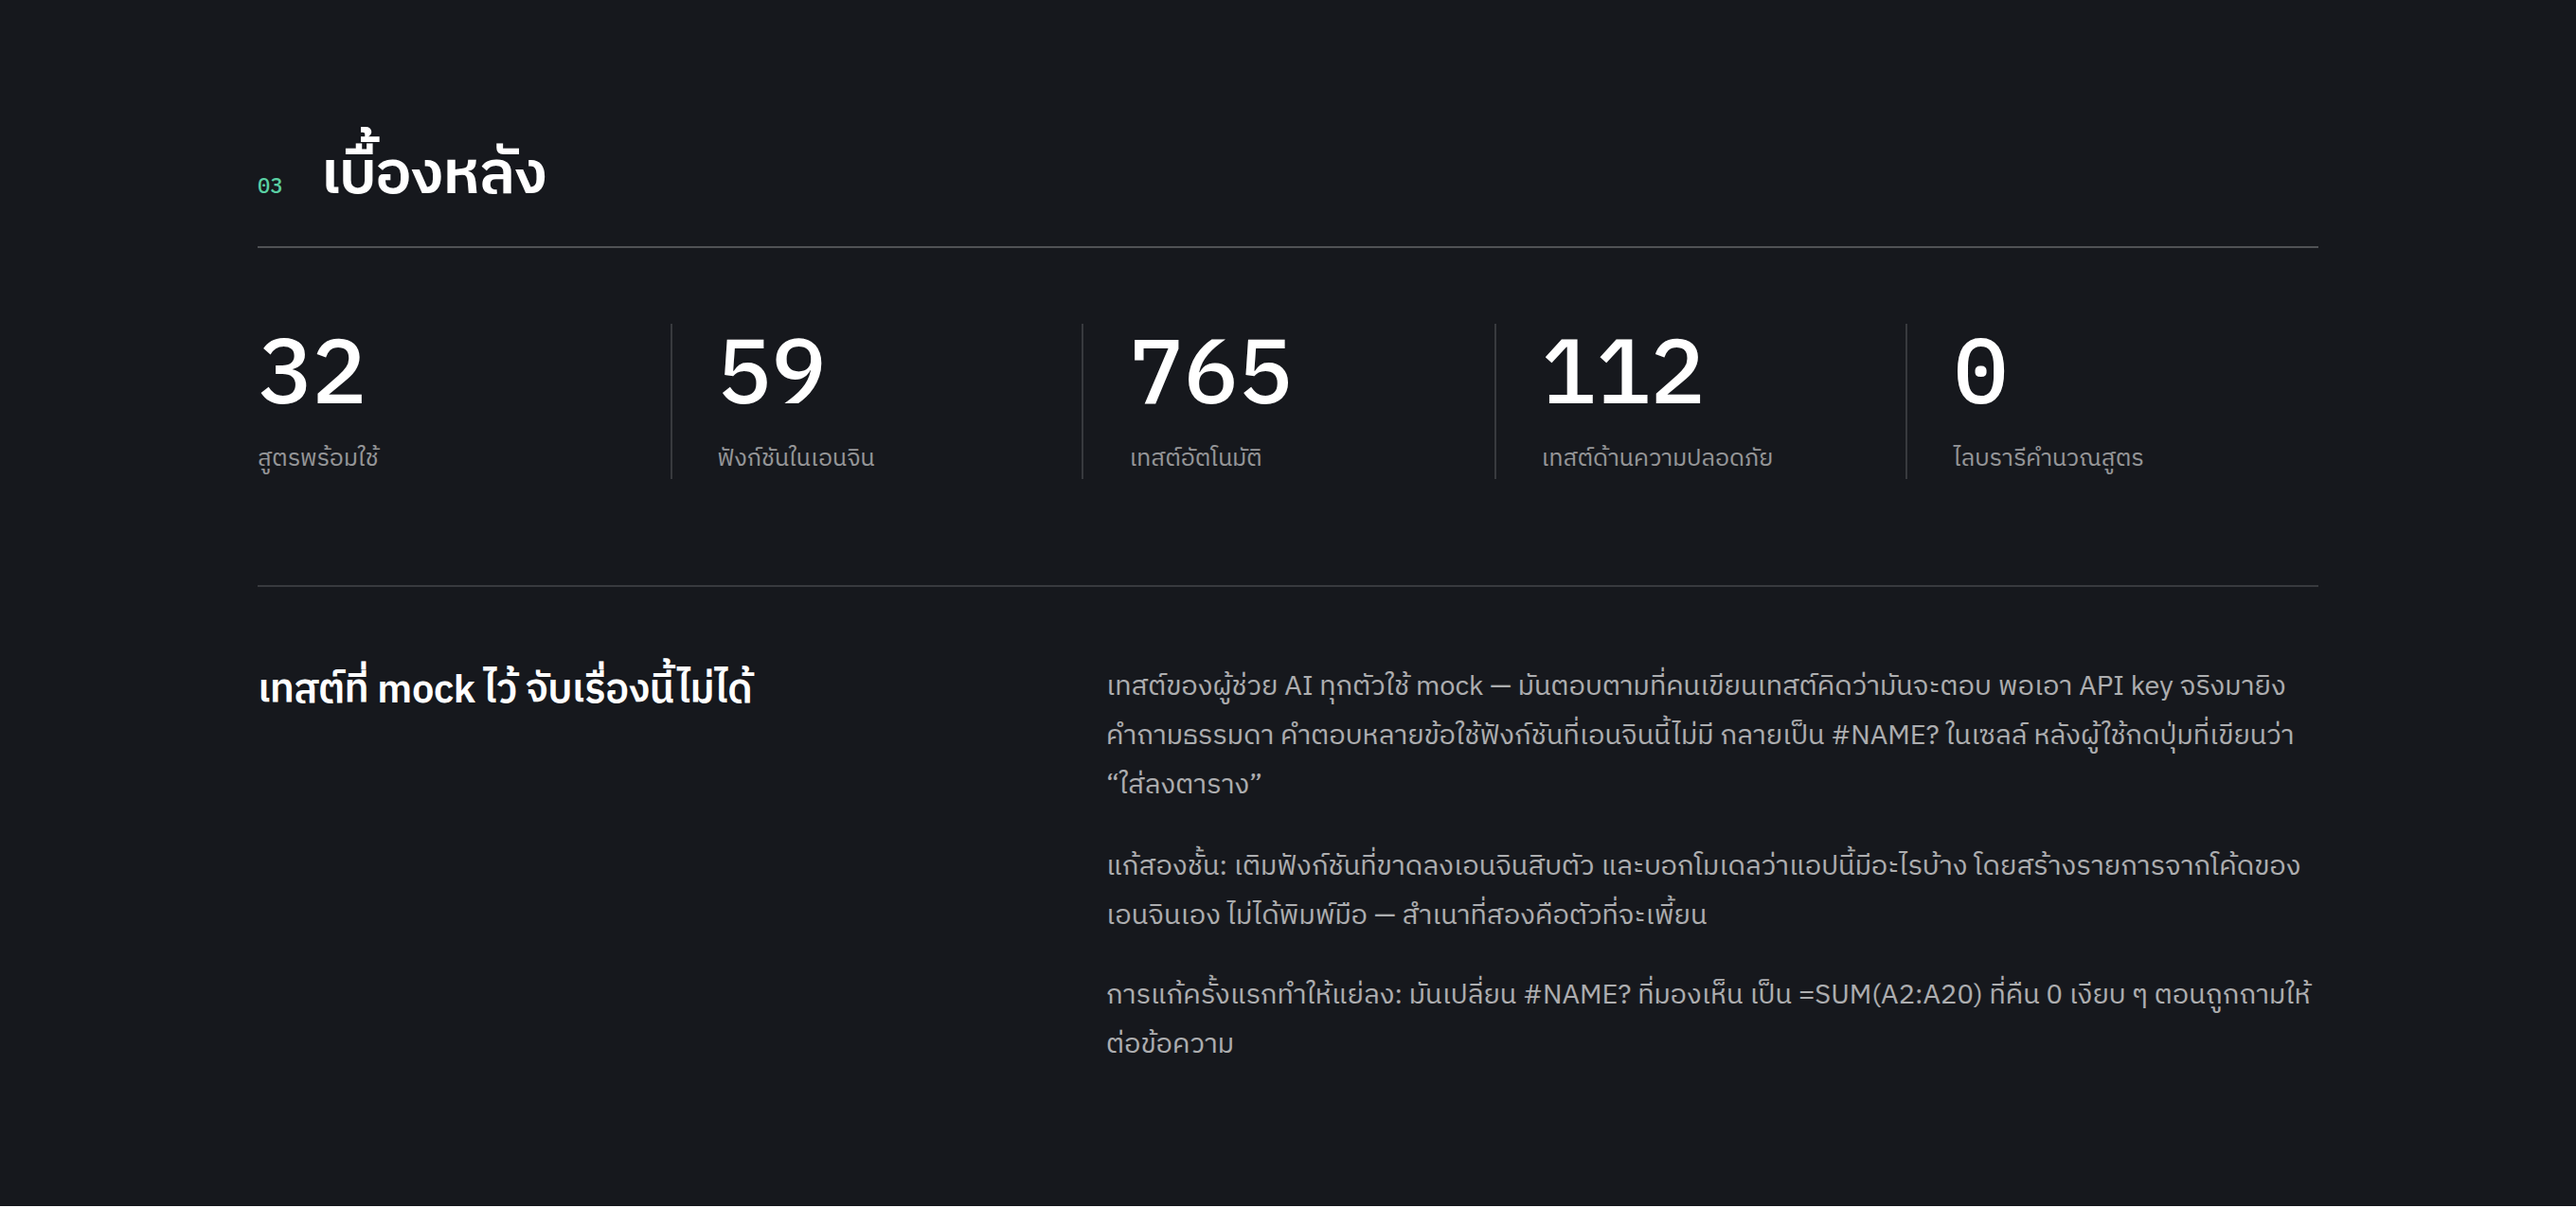
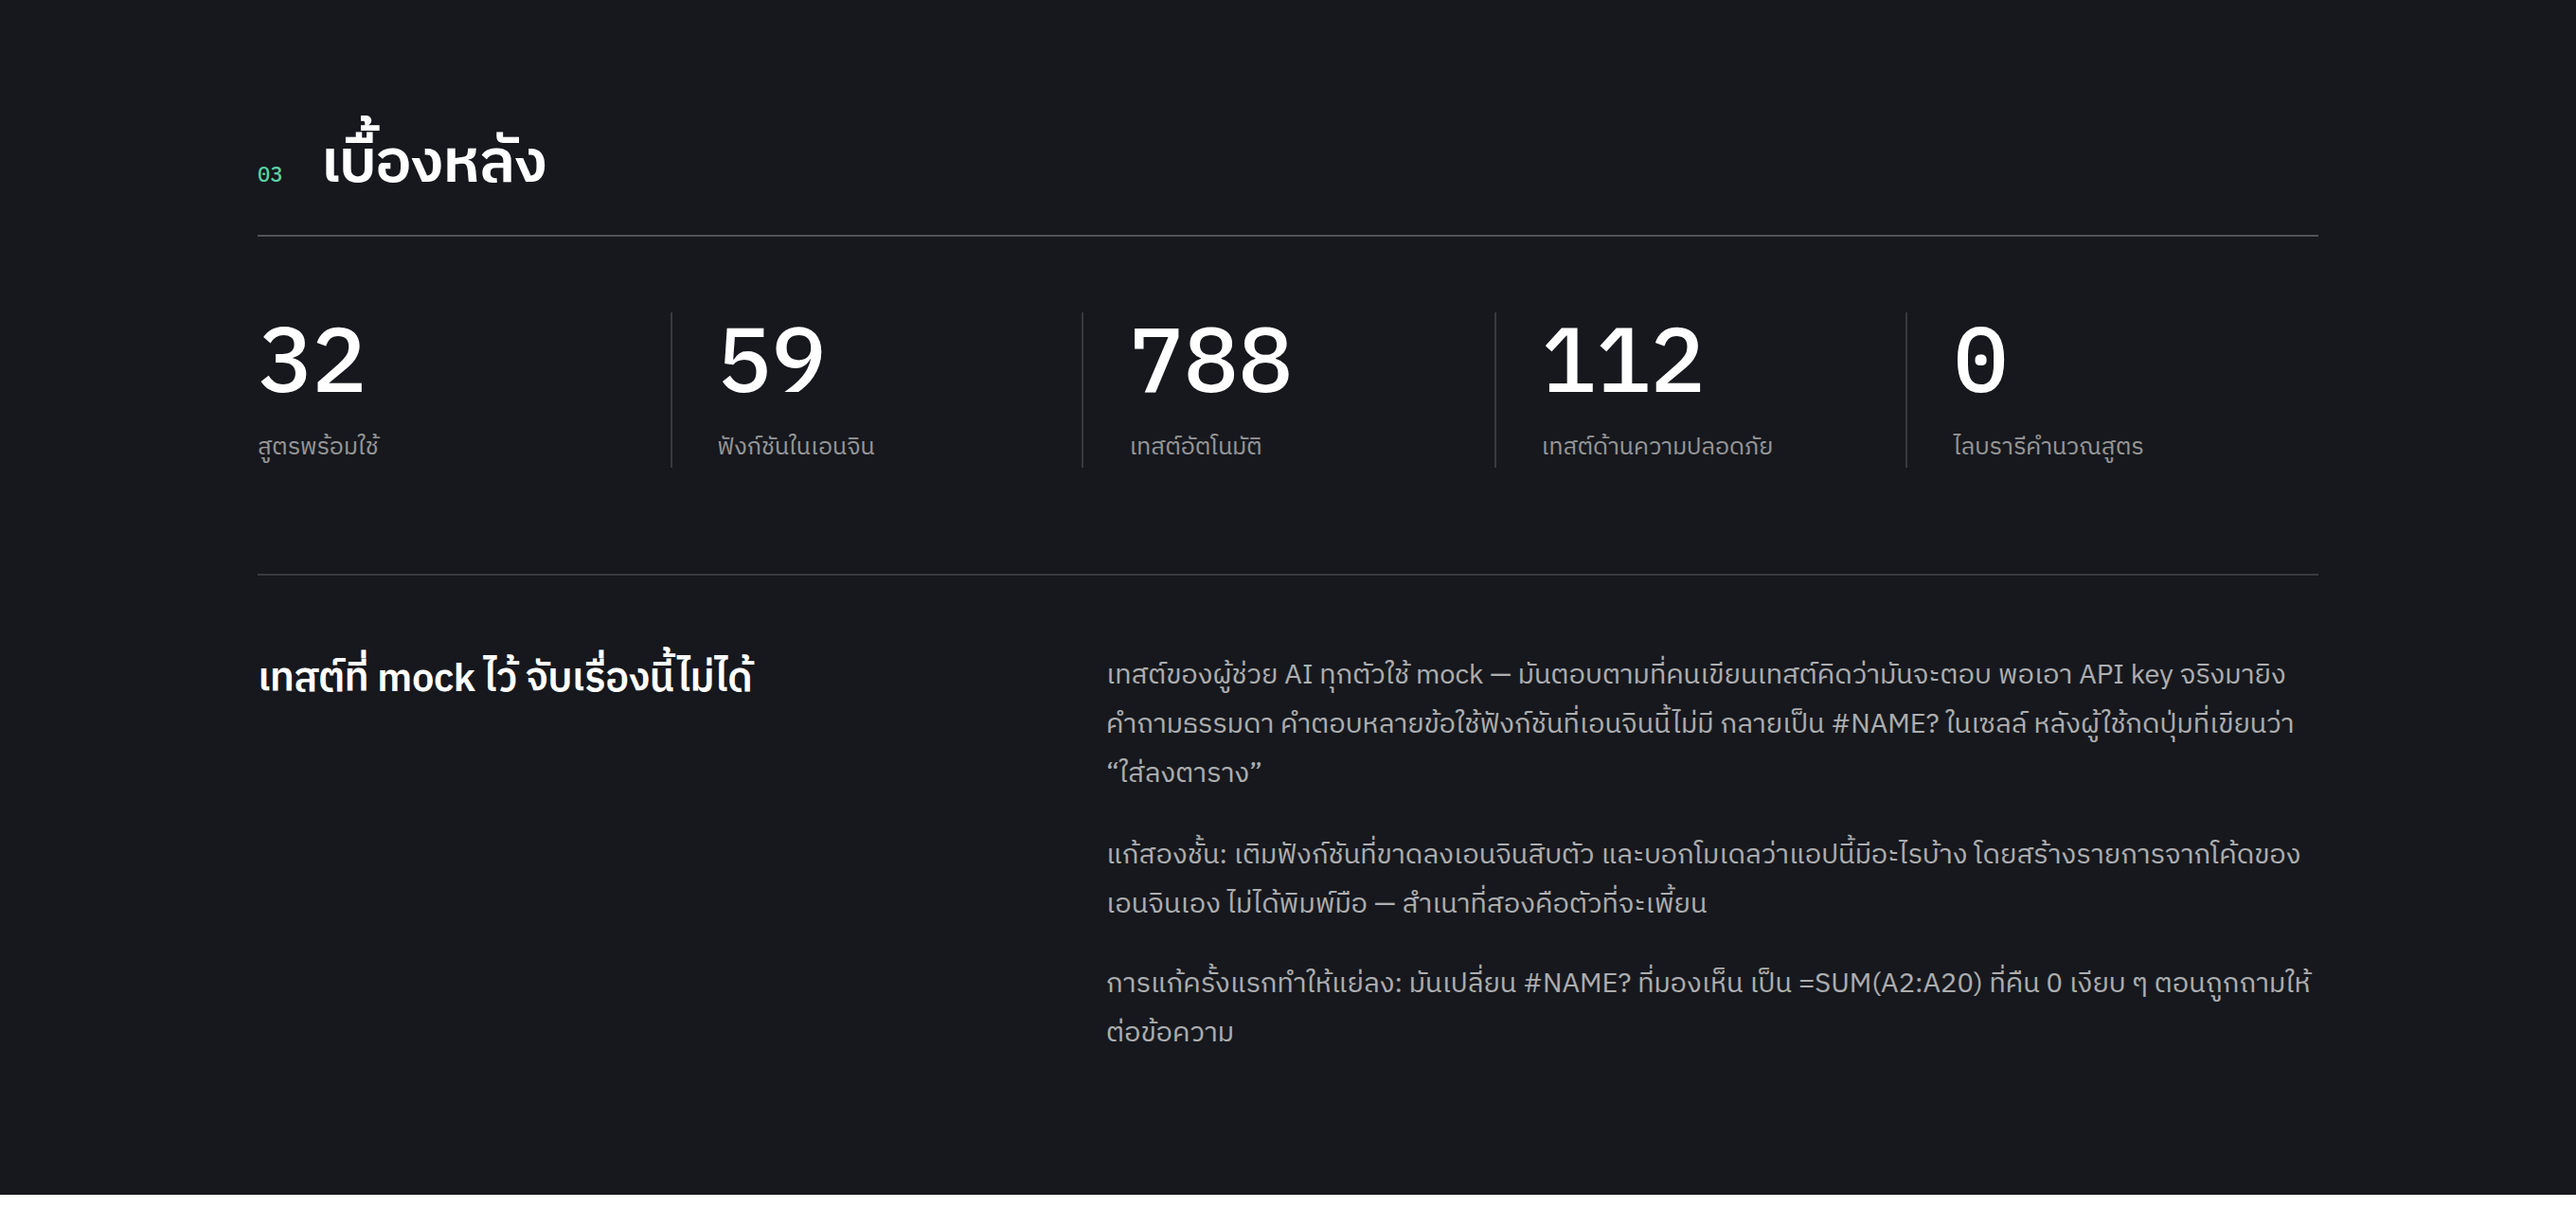
docs: what a green suite missed, twice
Every gate was green — 788 tests, axe clean on both pages at two widths,
Lighthouse Accessibility 100 — while a dead toolbar, an assistant
answering text questions with SUM, and a grid no screen reader could
drive were all sitting in the public build. That is the same lesson the
"what the tests could not catch" section already told about mocked AI
tests, so it belongs in that section rather than in a new one.

Both READMEs: the three findings and their fixes, the AutoSum range rule
with the computed-vs-raw subtlety that made the total right and the range
wrong, and the ARIA grid work under the Lighthouse numbers where the 100
it does not deserve is printed. Two claims that this work made untrue are
corrected — the matcher no longer "guesses a basic formula", it declines.

Roadmap gains the grid-pattern entry (done, with what is still open: an
aria-live summary, and no real screen reader has seen any of it) and a
new gap the blind run turned up: the Excel keyboard works completely and
nothing on screen says it exists — no help button, no shortcut list, no
mention of Ctrl+ outside the undo/redo tooltips.

Counts: 765 → 788 tests, 45 → 47 files, everywhere they are claimed.
25-landing and 27-landing-stats retaken from a production build because
they print the number, and social-preview.png regenerated from
scripts/counts.mjs. 04-ai-assistant is left alone: it shows the
bring-your-own-key path with a real answer, and nothing in it changed.
[…]

diff --git a/src/app/opengraph-image.tsx b/src/app/opengraph-image.tsx
@@ -26,7 +26,7 @@ export default function OgImage() {
   const stats = [
     ["59", "engine functions"],
     ["32", "palette formulas"],
-    ["765", "automated tests"],
+    ["788", "automated tests"],
     ["112", "of them security"],
     ["0", "formula libraries"],
   ];

diff --git a/README.en.md b/README.en.md
@@ -36,7 +36,7 @@ Runs in your browser; your data stays on your machine.
   <img alt="Tailwind CSS" src="https://img.shields.io/badge/Tailwind_CSS-4-06B6D4?logo=tailwindcss&logoColor=white">
   <img alt="Zustand" src="https://img.shields.io/badge/Zustand-5-443E38">
   <a href="https://excel-to-go.vercel.app"><img alt="Live demo" src="https://img.shields.io/badge/▶_try_it-live_demo-2F9E44"></a>
-  <img alt="Vitest" src="https://img.shields.io/badge/tests-765%20passing-2F9E44?logo=vitest&logoColor=white">
+  <img alt="Vitest" src="https://img.shields.io/badge/tests-788%20passing-2F9E44?logo=vitest&logoColor=white">
   <img alt="CI" src="https://github.com/SuruchBoss/ExcelToGo/actions/workflows/ci.yml/badge.svg">
 </p>
 
@@ -52,7 +52,7 @@ cell/range references, relative & structural reference adjustment, circular-refe
 workbooks, conditional formatting that re-colours cells from their current values, pivot summaries over a
 selected range, and full-fidelity Excel/PDF export — where a chart exported to `.xlsx` is a real, editable chart
 bound to its cells, because the OOXML chart parts are written by hand (ExcelJS writes none). Plus optional
-bring-your-own-backend cloud save. Bilingual UI (Thai/English), 765 automated tests.
+bring-your-own-backend cloud save. Bilingual UI (Thai/English), 788 automated tests.
 
 ---
 
@@ -96,7 +96,7 @@ Want the harder parts: [embedding a Thai font in the PDF, with stacked tone mark
 
 ---
 
-### 🧪 What 765 passing tests could not catch
+### 🧪 What 788 passing tests could not catch
 
 Every test of the assistant **mocks the model** — it returns what I imagined it would. Put a real
 API key behind it, ask fourteen ordinary questions, and **six answers used functions this engine
@@ -106,6 +106,26 @@ all `#NAME?` in the cell, right after pressing a button labelled "insert".
 Then **the first fix made it worse.** The rule started as "give the closest formula the list
 allows", so _"join all the names into one line"_ came back as `=SUM(A2:A20)` — `0` in the cell, no
 error, nothing to notice. **A visible `#NAME?` traded for an invisible wrong number.**
+
+**And it happened again, in a different place.** With every gate green — 788 tests, `axe` clean on
+both pages at two widths — an hour of clicking through the public build the way a first-time visitor
+would found three things no gate can see:
+
+- Half-insert a formula from the palette and **all six sidebar buttons went dead.** They still set
+  the mode in the store; a `pending ? … : mode` render just outranked it. Escape did nothing either,
+  so the press arrived later, attached to whichever click finally cancelled the formula.
+- The keyword matcher — which on the public demo is not a fallback but the *only* thing anyone sees
+  — answered _"add up all the sales"_ with `=SUM(E2)`, the total of one cell, and _"join the product
+  name and the category"_ with `=SUM(E2)` again. The system prompt has forbidden the model from
+  substituting like that since the fix above. Nothing had ever told the matcher.
+- `axe` passed the grid at four viewport/page combinations while it was, to a screen reader, an
+  ordinary table you could not drive: no `role="grid"`, no `aria-selected`, no `scope` on the
+  headers, every cell tabbable, and **the browser's focus stayed on A1 while Ctrl+↓ moved the cursor
+  to A10** — the sheet moved in silence. axe was right to pass. A `<table>` with `<th>` *is* a valid
+  table. It just was not what this is.
+
+All four are fixed. The lesson each time is the same one: a green suite says the code does what the
+tests say, and nothing whatever about whether that is the right thing.
 
 → [The whole story, and the fix](#-ask-ai-for-a-formula) · repeatable with `npm run check:ai`
 
@@ -222,7 +242,7 @@ Other available commands:
 | `npm run build` | Build a production bundle |
 | `npm run start` | Run the production build (run `npm run build` first) |
 | `npm run lint` | Check code quality with ESLint |
-| `npm test` | Run the 765-case Vitest suite |
+| `npm test` | Run the 788-case Vitest suite |
 | `npm run check:readme` | Check the READMEs still match the code (links/images/test count/new modules/both languages) |
 | `npm run check:a11y` | axe on both pages at 390px and 1280px, plus sideways-scroll checks (needs a build) |
 | `npm run check:ai` | Asks the real Claude with your own key and checks the formulas against what this engine can evaluate — not in `verify`, because it needs a key and costs money |
@@ -329,6 +349,27 @@ as "give the closest formula the list allows", so _"join all the names into one 
 for an invisible wrong number.** The rule now forbids substituting an unrelated function and asks
 for a warning instead.
 
+**Then the same mistake turned up in the matcher that answers when there is no key** — which, on the
+public demo, is not a fallback but the only thing anyone ever sees. Two failures, both found by
+using the demo rather than by testing it:
+
+- Every unmatched question fell through to `SUM`. _"Join the product name and the category"_ came
+  back as `=SUM(E2)`. The prompt had forbidden the model from doing this; nobody had told the code.
+  It now returns **no formula at all** and says so in an amber card with no Insert button. A
+  question it cannot answer is a better outcome than an answer it cannot justify.
+- The range was whatever cell you had highlighted, so _"add up all the sales"_ with one cell
+  selected meant `=SUM(E2)` — the total of one number. `aiRange.ts` now works out what the cursor is
+  *pointing at*, the way AutoSum has since 1985: the run of filled cells it stands in or sits under,
+  minus a text header on top of numbers. On this app's own sample sheet that turns the same question
+  into `=SUM(E2:E10)`, which is 7,495. The headers go along with it too — the API route had accepted
+  a `headers` field since the feature shipped and no caller had ever filled it in.
+
+One subtlety worth its own note: the widening reads the **computed** sheet, not the raw one. Column E
+of the sample is nine `=C2*D2` formulas, so reading the raw cells made every number in it look like
+text, the header rule never fired, and the range came back as `E1:E10` with the word "รวม" inside.
+`SUM` ignores text, so the *total was right and the range was wrong* — the kind of bug that survives
+because the number on screen looks fine.
+
 Repeatable with `npm run check:ai` (needs your own key; not part of `npm run verify`, because it
 costs money).
 
@@ -338,7 +379,7 @@ The assistant answers one of three ways, and the landing page says plainly which
 
 | Path | When | Answer comes from | Who pays |
 |---|---|---|---|
-| Local keyword matcher | The default | `aiHeuristic.ts` — matches words, guesses a basic formula | Nobody |
+| Local keyword matcher | The default | `aiHeuristic.ts` — matches words; **declines when nothing matches** | Nobody |
 | **The real Claude (BYOK)** | The visitor pastes their own API key | `api.anthropic.com`, straight from the browser | **The visitor's own account** |
 | The real Claude (server-side) | The operator sets `ANTHROPIC_API_KEY` | `/api/ai/formula` | Whoever runs the server |
 
@@ -1083,7 +1124,7 @@ architecture behind it.
 | `@anthropic-ai/sdk` | Connects to the Claude API for the AI assistant |
 | `lucide-react` | UI icons |
 | `clsx` | Conditional className composition |
-| `vitest` | Unit tests for the formula engine, sort logic, JSON-to-table conversion, pagination, rate limiting, templates, file fidelity, conditional formatting and live blocks (765 cases) |
+| `vitest` | Unit tests for the formula engine, sort logic, JSON-to-table conversion, pagination, rate limiting, templates, file fidelity, conditional formatting and live blocks (788 cases) |
 
 > **Note:** No off-the-shelf formula library (e.g. HyperFormula) is used — the **formula engine is hand-written**
 > (tokenizer, parser, evaluator, and functions) to keep full control over its behavior. See
@@ -1303,6 +1344,7 @@ src/
                               # number format) + pt↔px conversion and to/from Excel numFmt
     aiHeuristic.ts           # Keyword-based formula suggestion logic (used with no ANTHROPIC_API_KEY), bilingual
     aiPrompt.ts              # The prompt and reply parsing, shared by the server route and the browser (BYOK)
+    aiRange.ts               # Which cells a question is about, from where the cursor is (AutoSum) + the headers sent along
     byok.ts                  # The visitor's own API key: this tab only, masked when shown
     sheet.ts                 # The core sheet data model, whole-sheet computation, applying a formula by scope,
                               # inserting/deleting rows-columns
@@ -1719,6 +1761,18 @@ Measured against a local production build (`npm run build && npm run start`) wit
 **Accessibility 100 on both pages**, which agrees with the [`check:a11y`](#-testing) gate that runs axe on
 every PR — two different tools, same answer.
 
+**Both of them were also wrong about the grid, and worth saying so.** Lighthouse 100 and axe clean at
+four viewport/page combinations, while the sheet was to a screen reader an ordinary data table you
+could not drive: no `role="grid"`, no `aria-selected`, no `scope` on the headers, every one of ten
+thousand cells its own tab stop, and the browser's focus parked on A1 while `Ctrl+↓` moved the cursor
+to A10 in silence. Neither tool was at fault — a `<table>` with `<th>` is a valid table, and they
+were grading the thing they were shown. The grid now declares itself: `role="grid"` with
+`aria-rowcount`/`aria-colcount`, `aria-rowindex` per row and `aria-colindex` per cell (the only way
+"row 2,003 of 5,000" exists at all when forty rows are in the DOM), `scope` on both header
+directions, `aria-selected` tracking the range, one roving tab stop instead of one per cell, and DOM
+focus that follows the cursor — including the *moving* corner when Shift extends a selection, since
+the anchor staying put is how a growing selection goes unannounced.
+
 **Performance is not 90, and the only thing Lighthouse flags is `unused-javascript`, ~59KB (~300ms)** —
 mostly Next's own framework chunks that aren't needed for the first frame. Going further means cutting into
 the framework bundle itself, which isn't a trade worth making here. Written down rather than rounded up.
@@ -1729,7 +1783,7 @@ the framework bundle itself, which isn't a trade worth making here. Written down
 ## 🧪 Testing
 
 ```bash
-npm test      # 765 cases across 45 files, via Vitest
+npm test      # 788 cases across 47 files, via Vitest
 ```
 
 Testing is focused on the **formula engine, sort logic, JSON-to-table conversion, pagination, rate-limit backoff, Excel templates and live-block placement** — pure functions with no React/DOM dependency, so
@@ -1737,10 +1791,10 @@ they run fast and give high confidence. UI/interaction behavior was verified man
 development of each feature (the scripts weren't committed to the repo — they were a temporary verification
 tool, not a permanent regression suite).
 
-> **765 tests passed, and 43% of the assistant's answers were unusable** — because those tests mock
+> **788 tests passed, and 43% of the assistant's answers were unusable** — because those tests mock
 > the model, so it returns what the test author imagined. A test count says what you thought to ask,
 > not whether you asked enough. Only a real API key found this: see
-> [What 765 passing tests could not catch](#-what-765-passing-tests-could-not-catch), repeatable
+> [What 788 passing tests could not catch](#-what-788-passing-tests-could-not-catch), repeatable
 > with `npm run check:ai`.
 
 | File | Cases | Tests |
@@ -1834,6 +1888,15 @@ What's not done yet, and why — to show this is a known gap, not something forg
       widths is the whole point** — the previous audit ran at desktop width only and reported zero
       violations while eight buttons below 640px had no accessible name. Still open: states you have to
       open first (panels, menus, popovers) aren't checked.
+- [x] **The grid speaks the ARIA grid pattern** — done: `role="grid"`, row/column counts and per-cell
+      indices that survive virtualization, `scope` on both header directions, `aria-selected`, one
+      roving tab stop, and focus that follows the cursor. Found by using the app with the keyboard,
+      not by any gate — axe passed all four runs while it was still an undriveable table. Still open:
+      an `aria-live` summary for things that happen away from the cursor (a sort, an import, a paste),
+      and none of it is verified against a real screen reader.
+- [ ] **A keyboard-shortcut reference in the app** — the Excel keys (`Ctrl+↓`, `Ctrl+A`'s two-step,
+      `Home`/`End`, `Page` keys) all work and nothing on screen says they exist. A blind run found no
+      help button, no shortcut list, and no mention of `Ctrl+` anywhere outside the undo/redo tooltips.
 - [x] **Direct CSV import/export** — done (see ✨ Features): the delimiter is sniffed (`,`, `;`, tab), the BOM
       is stripped on the way in and written on the way out so Excel reads Thai, quoting follows RFC 4180, and
       the export carries computed values. Still open: non-UTF-8 files, and CSV-injection neutralising.
